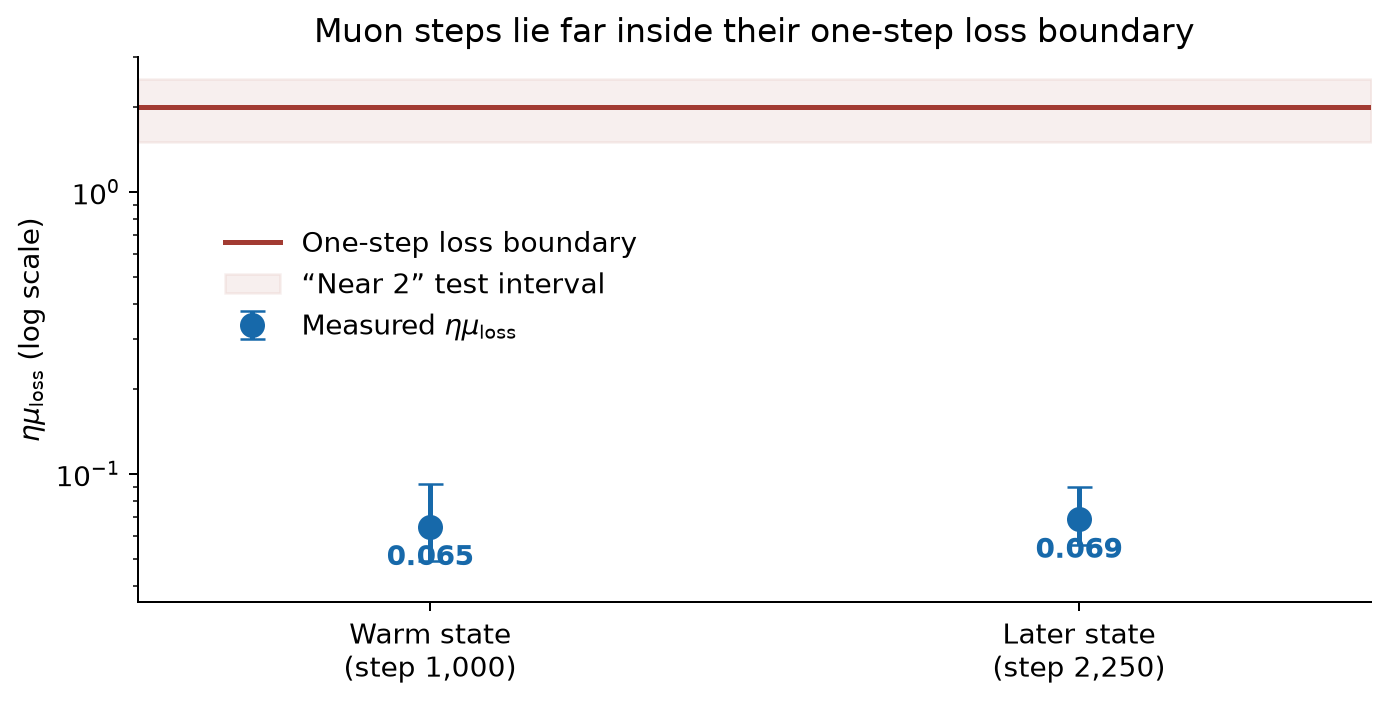
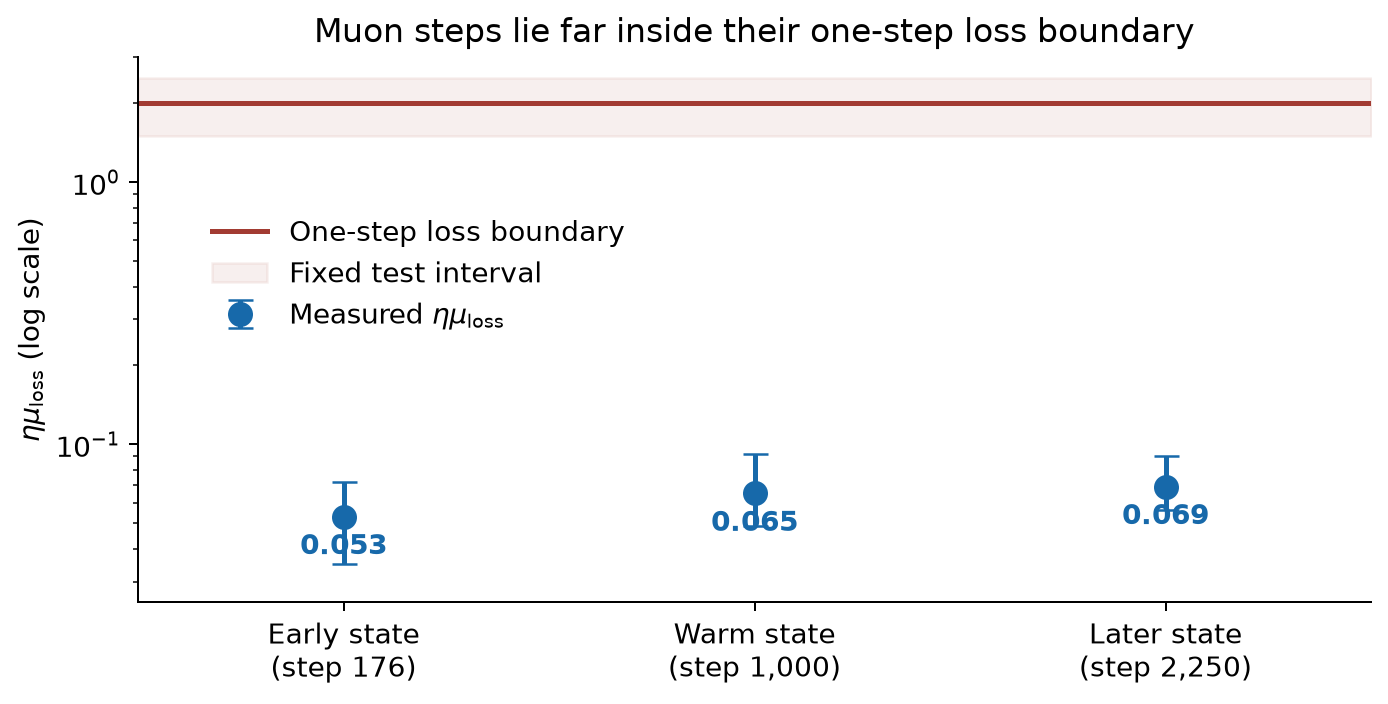
apply final Muon edge audit fixes

diff --git a/reports/muon-edge-memory-2026-09-02/index.html b/reports/muon-edge-memory-2026-09-02/index.html
@@ -48,12 +48,14 @@
 </head>
 <body><main>
   <h1>Muon's edge remembers the gradient history</h1>
-  <p class="dek">A long-memory momentum kernel lets curvature fall after the learning rate rises. A short-memory kernel with nearly the same period-two attenuation does not. Muon's edge of stability is therefore a property of the momentum–polar recurrence, not a scalar correction to Hessian sharpness.</p>
+  <p class="dek">A long-memory momentum kernel lets curvature fall after the learning rate rises. A short-memory kernel with nearly the same period-two attenuation does not. Muon's edge of stability is therefore a property of the momentum–polar recurrence.</p>
 
   <div class="question">
     <div class="label">Question</div>
     <p>What quantity does momentum regulate when a normalized matrix-sign optimizer operates at the edge of stability?</p>
   </div>
+
+  <p>This study uses a 12-layer, width-768 transformer language model trained with Muon on FineWeb at NanoGPT speedrun scale. Measurements cover all 72 hidden weight matrices; the kernel and learning-rate interventions start from one saved mid-training state.</p>
 
   <h2>The causal result</h2>
   <p>Kernel memory determines whether Muon compensates for a larger learning rate. Both comparisons start from the same saved model and optimizer state, use the same minibatches, and raise the learning rate by the same factor. The deployed kernel mixes gradient averages with average lags of roughly 6 and 49 steps. The short-memory comparison uses only the 6-step average.</p>
@@ -75,7 +77,7 @@
     </tbody>
   </table>
 
-  <p>The short-memory run also loses the coherent period-two gradient field and ends with substantially worse validation loss. By 1,200 steps, its generalized curvature is 1.71 times the long-memory value. The effect is uniform across matrices. The long-memory component is carrying the feedback that flattens the bulk curvature seen by spectral descent. Matching the kernel's response at period two does not match that feedback.</p>
+  <p>The short-memory run also loses the coherent period-two gradient field and ends with substantially worse validation loss. By 1,200 steps, its generalized curvature (defined below) is 1.71 times the long-memory value. The effect is uniform across matrices. The long-memory component is carrying the feedback that flattens the bulk curvature seen by spectral descent. Matching the kernel's response at period two does not match that feedback.</p>
 
   <div class="result">
     <div class="label">Consequence</div>
@@ -155,7 +157,7 @@
 
   <p>The derivation holds for a frozen active direction. Rotation of that direction contributes another term whose sign is not fixed. The calculation supplies a flattening mechanism, not a proof that one scalar stays constant.</p>
 
-  <p>The alternating field is directly measurable. Raising the learning rate increases median cycle work from 221 to 390, and an independent replay reproduces 391 despite rapid trajectory divergence. The ratio of cycle work to slow work barely changes, however, and its registered cross-matrix prediction of later curvature velocity has the wrong sign. Coherent work is therefore part of the mechanism, but that normalized ratio is not its state variable.</p>
+  <p>The alternating field is directly measurable. Cycle work is the negative inner product of the alternating parts of consecutive updates and gradients; slow work applies the same construction to their non-alternating parts. Raising the learning rate increases median cycle work from 221 to 390, and an independent replay reproduces 391 despite rapid trajectory divergence. The ratio of cycle work to slow work barely changes, however, and a cross-matrix prediction fixed before scoring gives the wrong sign for later curvature velocity. Coherent work is therefore part of the mechanism, but that normalized ratio is not its state variable.</p>
 
   <h2>The constant 2 has a narrow meaning</h2>
   <p>For the actual shape-scaled update \(U_t=s\,\operatorname{polar}(p_t)\), the quadratic one-step loss change is</p>
@@ -185,18 +187,18 @@
   <p>Curvature cancels from this approximation. A ratio near 2 could therefore arise because the oscillation saturates the step budget. The replay measurement distinguishes that identity regime from an ordinary low-curvature descent direction.</p>
 
   <figure>
-    <img src="assets/mu_loss_boundary.png" alt="Log-scale plot showing eta times mu loss near 0.067 at two states, far below the one-step loss boundary at 2.">
-    <figcaption><b>The realized Muon step is not at its one-step loss boundary.</b> Points show medians across 72 matrices; lines span the interquartile ranges. No matrix lies in the preregistered interval from 1.5 to 2.5. The two measured states differ greatly in training age, yet both give a median near 0.067.</figcaption>
+    <img src="assets/mu_loss_boundary.png" alt="Log-scale plot showing eta times mu loss between 0.053 and 0.069 at three states, far below the one-step loss boundary at 2.">
+    <figcaption><b>The realized Muon step is not at its one-step loss boundary.</b> Points show medians across 72 matrices; lines span the interquartile ranges. No matrix lies in the interval from 1.5 to 2.5, fixed before scoring. Three states spanning a thirteen-fold range in training age remain in the same low-ratio regime.</figcaption>
   </figure>
 
   <div class="result">
     <div class="label">Loss-boundary replay</div>
-    <p>The median \(\eta\mu_{\rm loss}\) is 0.065 at step 1,000 and 0.069 at step 2,250, with interquartile ranges [0.049, 0.092] and [0.056, 0.090]. Muon's realized update therefore has roughly thirty times less curvature per unit descent than a step at the quadratic loss boundary.</p>
+    <p>The median \(\eta\mu_{\rm loss}\) is 0.053 at step 176, 0.065 at step 1,000, and 0.069 at step 2,250. The corresponding interquartile ranges are [0.035, 0.072], [0.049, 0.092], and [0.056, 0.090]. Muon's realized update therefore has roughly thirty times less curvature per unit descent than a step at the quadratic loss boundary.</p>
   </div>
 
   <p>Substituting these values into \(2/\kappa\) would require \(\kappa\approx29\)–31, although \(\kappa\) is a saturation fraction bounded by one. The saturated single-mode identity is excluded in this regime. The edge phenomena live in high-curvature modes of the gradient field that the realized polar-of-momentum update largely avoids.</p>
 
-  <p>The nearly equal ratio at two different training states is a new empirical regularity. We do not yet have a mechanism for the value 0.067.</p>
+  <p>The ratio rises mildly with age, yet remains within a factor of 1.3 across a thirteen-fold age range. This stable low-ratio regime is a new empirical regularity; we do not yet have a mechanism for its level or trend.</p>
 
   <h2>Generalized curvature is a bulk quantity</h2>
   <p>The spectral-norm geometry combines many Hessian directions. The first completed checkpoints place the generalized spectral-ball curvature between roughly eleven and fourteen times the top Euclidean Hessian eigenvalue for the median matrix. Individual matrix ratios range from about two to fifty-seven.</p>
@@ -266,16 +268,16 @@
         <td>The memory-dependent field changes bulk curvature itself; the missing state belongs in the temporal feedback law.</td>
       </tr>
       <tr>
-        <td>The ratio remains near 0.067 at two training ages</td>
-        <td>A stable state-conditioned ratio may exist, but its value currently lacks an explanation.</td>
+        <td>The median ratio moves from 0.053 to 0.069 across steps 176–2,250</td>
+        <td>A stable low-ratio regime may exist, but its level and mild age trend currently lack an explanation.</td>
       </tr>
     </tbody>
   </table>
 
   <div class="result">
     <div class="label">Current answer</div>
-    <p>Momentum is part of the optimizer's stability state. Its useful role here is to preserve a coherent high-curvature gradient field long enough for third-order geometry to regulate bulk curvature. The polar map then spreads the realized update into directions with far less curvature per unit descent. A principled momentum rule should respond to measured temporal coherence and curvature feedback rather than follow a fixed schedule or a single Hessian threshold.</p>
+    <p>Momentum is part of the optimizer's stability state. Its useful role here is to preserve a coherent high-curvature gradient field long enough for third-order geometry to regulate bulk curvature. The polar map then spreads the realized update into directions with far less curvature per unit descent. The useful low-dimensional control state, if one exists, must therefore include temporal coherence; a single Hessian threshold cannot supply it.</p>
   </div>
 
-  <p class="small">Working draft. The generalized-curvature and loss-boundary results shown here were interpreted under rules fixed before their values were inspected. A third loss-boundary state is still scoring and will test the apparent stability of the 0.067 ratio.</p>
+  <p class="small">The generalized-curvature and loss-boundary results shown here were interpreted under rules fixed before their values were inspected.</p>
 </main></body></html>
